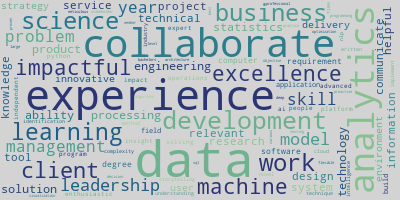
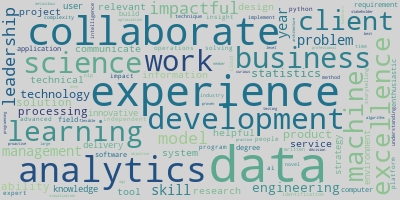
advanced ngram parsing and updated sns.barplot

diff --git a/nlp_main.py b/nlp_main.py
@@ -3121,16 +3121,24 @@ def visualize_n_grams(n_grams, ds_cred_terms, terms_for_nlp):
         mask_bigram = bigrams.grams.isin(bigram_match_to_cred_list)
         bigrams_df_sns = bigrams[mask_bigram]
 
-####### !!!!!!!! WORKING HERE - Visualize credential list | NEXT STEP: deconflict mono and bi, probably a manual curation #########        
-        
         # add the monograms and bigrams
-        mono_bi_combined_sns = pd.concat([monograms_df_sns, bigrams_df_sns], axis=0, ignore_index=True)
+        ngram_combined_sns = pd.concat([monograms_df_sns, bigrams_df_sns], axis=0, ignore_index=True)
+
+####### !!!!!!!! WORKING HERE - Visualize credential list | NEXT STEP: manual curation #########          
+        # identify noisy, duplicate or unhelpful terms and phrases
+        ngrams_to_silence = ['data', 'data analytics', 'experience', 'business', 'science', 'year', 'ability',
+                            'system', '', '', '', '', '', '', '', '', '', '', '',]
         
-        # filter down to exclude noisy, duplicate or unhelpful terms and phrases
-        terms_redacted = ['data', 'data analytics']
+        # exclude unwanted terms and phrases
+        ngram_combined_sns = ngram_combined_sns[~ngram_combined_sns.grams.isin(ngrams_to_silence)].reset_index(drop=True)
 
         # create a horizontal barplot visualizing data science credentials
-        ax = sns.barplot(x='count', y='grams', data=monograms_df_sns, orient='h', palette='mako_r') # crest, mako, 'mako_d, Blues_d, mako_r, ocean, gist_gray, gist_gray_r, icefire
+        ax = sns.barplot(x='count',
+                         y='grams',
+                         data=ngram_combined_sns,
+                         order=ngram_combined_sns.sort_values('count', ascending = False).grams[:20],
+                         orient='h',
+                         palette='mako_r') # crest, mako, 'mako_d, Blues_d, mako_r, ocean, gist_gray, gist_gray_r, icefire
         ax.set_title('Key Terms for Data Scientist Credentials', fontsize=19)
         
     visualize_all(n_grams, ds_cred_terms, terms_for_nlp)
@@ -3388,3 +3396,7 @@ del start_time, end_time
 #     # working on extracting hex colors from seaborn palletes
 #     pal = sns.color_palette('mako')
 #     print(pal.as_hex())
+
+# ngram_combined_sns = [x for x in ngram_combined_sns.grams if x not in ngrams_to_redact]
+# ngram_combined_sns['grams'] = ngram_combined_sns.grams.apply(lambda x: [i for i in x if i != ngram_combined_sns])
+
